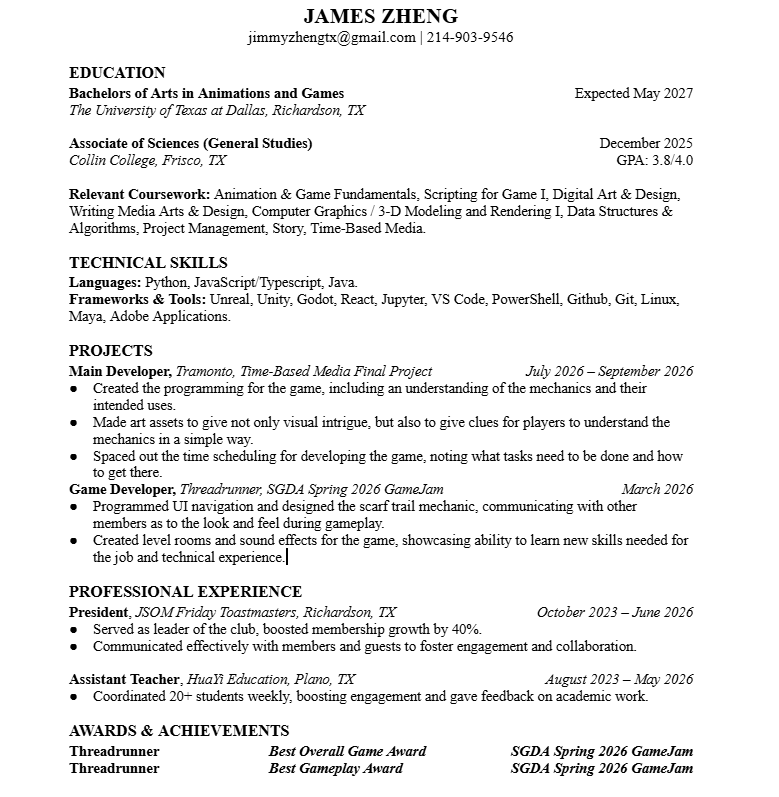
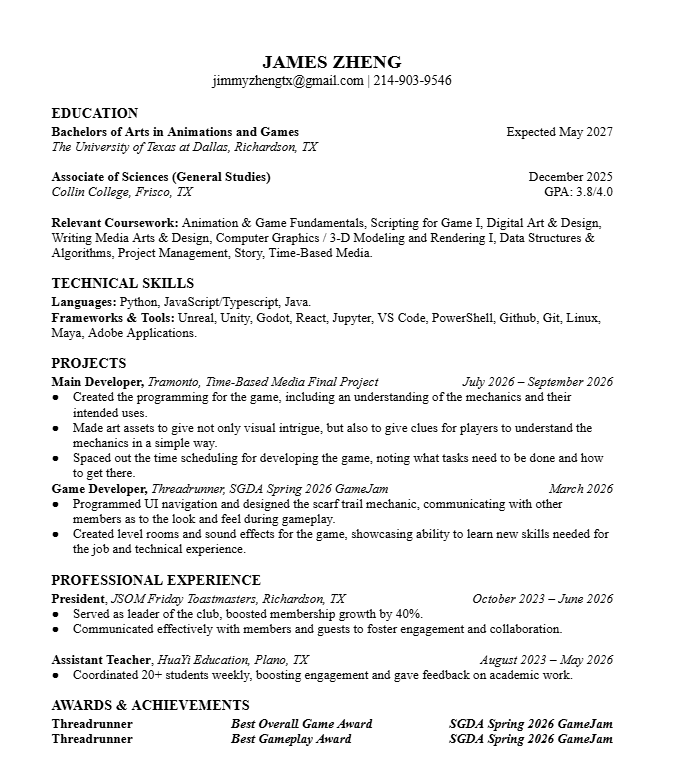
Added the Resume page and fix any other issues as well.

Changed region(s): [[0.062, 0.0, 0.8996, 0.9987], [0.6514, 0.9363, 0.8996, 0.9987], [0.7445, 0.0936, 0.8996, 0.1248]]

diff --git a/Resume.html b/Resume.html
@@ -1,0 +1,22 @@
+<!DOCTYPE html>
+<html lang="en">
+<head>
+	<meta charset="UTF-8">
+	<meta name="viewport" content="width=device-width, initial-scale=1.0">
+	<title>Projects - James Zheng</title>
+	<link rel="stylesheet" href="style.css">
+</head>
+<body>
+	<header>
+	    <a>James Zheng</a>
+		<nav aria-label="Main navigation">
+			<a href="index.html">About</a>
+            <a href="Portfolio.html">Projects</a>
+			<a href="Contact.html">Contact</a>
+        </nav>
+	</header>
+	<main>
+        <img src="Images/Resume.png">
+	</main>
+</body>
+</html>

diff --git a/index.html b/index.html
@@ -29,7 +29,7 @@
 	<main>
 		<h1>James Zheng</h1>
         <h2>Game Developer/Designer</h2>
-        <p>I'm a up and coming Indie Game Developer from Texas, creating games to express my passion and love for this medium. Currently Animation & Games Major at UTD.</p>
+        <p>I'm a up and coming Indie Game Developer from Texas, creating games to express my passion and love for this medium. Current student studying Animation & Games Major at UTD.</p>
 	</main>
 </body>
 </html>

diff --git a/Portfolio.html b/Portfolio.html
@@ -38,7 +38,7 @@
 				<span>Treadrunner</span>
 		</a>
 		<h2>Resume</h2>
-		<a class="game-card" href="WorkedOnGames1-Threadrunner.html" aria-label="Open Threadrunner game page">
+		<a class="game-card" href="Resume.html" aria-label="Open Threadrunner game page">
 				<img src="Images/Resume.png" alt="Threadrunner game preview">
 		</a>
 	</main>
